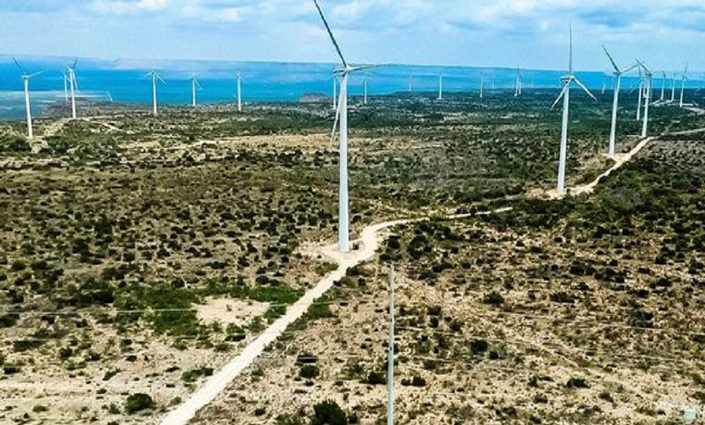
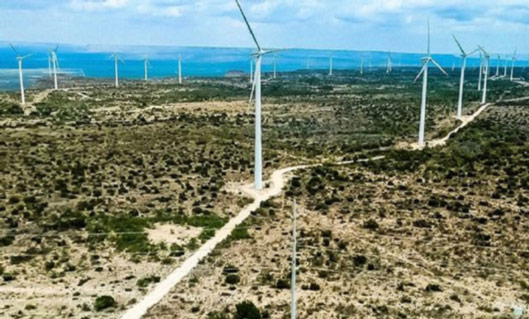
Add files via upload

diff --git a/index.html b/index.html
@@ -260,7 +260,7 @@ Providing a focused portfolio of services at the highest quality in the industry
           </div>
           <ul class="works-grid works-grid-gut works-grid-3 works-hover-w" id="works-grid">
 		  <li class="work-item illustration webdesign">
-                <div class="work-image"><img src="silverstar.jpeg" alt="Portfolio Item"/></div>
+                <div class="work-image"><img src="silverstar.jpg" alt="Portfolio Item"/></div>
                 <div class="work-caption font-alt">
                   <h3 class="work-title">Silverstar Re-Power</h3>
                   <div class="work-descr">Global Wind Services</div>
@@ -274,7 +274,7 @@ Providing a focused portfolio of services at the highest quality in the industry
 				  <div class="work-descr">Champaigne, IL</div>
                 </div></li>
 				<li class="work-item illustration webdesign">
-                <div class="work-image"><img src="brightstalk.jpeg" alt="Portfolio Item"/></div>
+                <div class="work-image"><img src="brightstalk.jpg" alt="Portfolio Item"/></div>
                 <div class="work-caption font-alt">
                   <h3 class="work-title">Brightstalk, Illinois</h3>
                   <div class="work-descr">Electrical on V136 Turbines</div>
